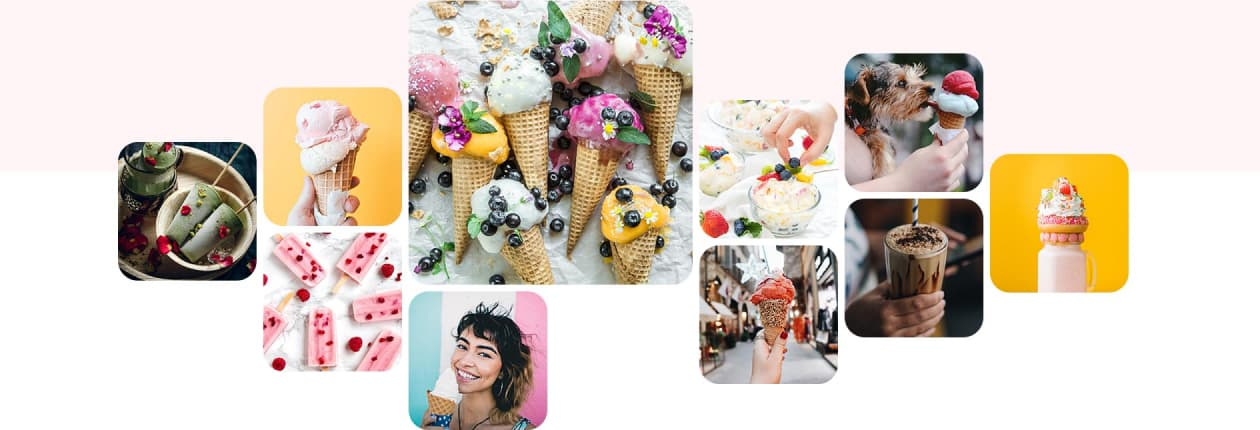
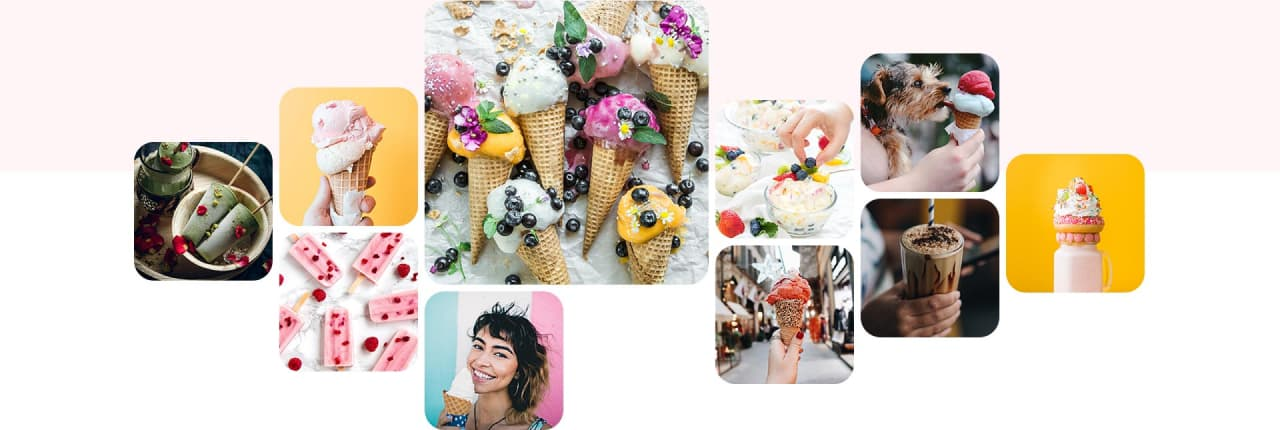
добавила недостающие форматы картинок

Changed region(s): [[0.0929, 0.0, 0.7738, 1.0], [0.8357, 0.3628, 0.8976, 0.6651]]

diff --git a/src/sass/layout/_gallery.scss b/src/sass/layout/_gallery.scss
@@ -13,19 +13,23 @@
   top: 0;
  width: 100%;
  height: 122px;
-background-image: url('../images/gallery/mobile/ice-cream-mob.jpg');
-  background-size: contain;
-  background-repeat: no-repeat;
-  background-position: center;
+// background-image: url('../images/gallery/mobile/ice-cream-mob.jpg');
+//   background-size: contain;
+//   background-repeat: no-repeat;
+//   background-position: center;
 }
 
-@media screen and (min-devicel-ratio: 2),
-  screen and (min-resolution: 192dpi) and (min-width: 320px),
-  screen and (min-resolution: 2dppx) and (min-width: 320px) {
-  .gallery-container {
-    background-image: url('../images/gallery/mobile/ice-cream-mob@2x.jpg');
-  }
-}
+// .gallery-img {
+//   height: 100%;
+// }
+
+// @media screen and (min-devicel-ratio: 2),
+//   screen and (min-resolution: 192dpi) and (min-width: 320px),
+//   screen and (min-resolution: 2dppx) and (min-width: 320px) {
+//   .gallery-container {
+//     background-image: url('../images/gallery/mobile/ice-cream-mob@2x.jpg');
+//   }
+// }
 
 @media screen and (min-width: 768px) {
   .gallery-container,
@@ -33,18 +37,18 @@ background-image: url('../images/gallery/mobile/ice-cream-mob.jpg');
     height: 264px;
   }
 
-  .gallery-container {
-    background-image: url('../images/gallery/tablet/ice-cream-tabl.jpg');
-  }
+  // .gallery-container {
+  //   background-image: url('../images/gallery/tablet/ice-cream-tabl.jpg');
+  // }
 }
 
-@media screen and (min-devicel-ratio: 2),
-  screen and (min-resolution: 192dpi) and (min-width: 768px),
-  screen and (min-resolution: 2dppx) and (min-width: 768px) {
-  .gallery-container {
-    background-image: url('../images/gallery/tablet/ice-cream-tabl@2x.jpg');
-  }
-}
+// @media screen and (min-devicel-ratio: 2),
+//   screen and (min-resolution: 192dpi) and (min-width: 768px),
+//   screen and (min-resolution: 2dppx) and (min-width: 768px) {
+//   .gallery-container {
+//     background-image: url('../images/gallery/tablet/ice-cream-tabl@2x.jpg');
+//   }
+// }
 
 @media screen and (min-width: 1200px) {
   .gallery-container,
@@ -52,19 +56,18 @@ background-image: url('../images/gallery/mobile/ice-cream-mob.jpg');
     height: 430px;
   }
 
-  .gallery-container {
-    box-shadow: 0 7px 7px -4px rgba(0, 0, 0, 0.25);
-    background-image: url('../images/gallery/desktop/ice-cream-desk.jpg');
-  }
+  // .gallery-container {
+  //   background-image: url('../images/gallery/desktop/ice-cream-desk.jpg');
+  // }
 }
 
-@media screen and (min-devicel-ratio: 2),
-  screen and (min-resolution: 192dpi) and (min-width: 1200px),
-  screen and (min-resolution: 2dppx) and (min-width: 1200px) {
-  .gallery-container {
-    background-image: url('../images/gallery/desktop/ice-cream-desk@2x.jpg');
-  }
-}
+// @media screen and (min-devicel-ratio: 2),
+//   screen and (min-resolution: 192dpi) and (min-width: 1200px),
+//   screen and (min-resolution: 2dppx) and (min-width: 1200px) {
+//   .gallery-container {
+//     background-image: url('../images/gallery/desktop/ice-cream-desk@2x.jpg');
+//   }
+// }
 
 .title {
   font-family: $title-text-font;

diff --git a/src/partials/gallery.html b/src/partials/gallery.html
@@ -1,6 +1,58 @@
 <section class="gallery">
   <div class="container gallery-container">
     <h2 class="title visually-hidden">Gallery</h2>
+    <picture>
+                <source
+                  srcset="
+                    ./images/gallery/desktop/ice-cream-desk-webp.webp    1x,
+                    ./images/gallery/desktop/ice-cream-desk-webp@2x.webp 2x
+                  "
+                  media="(min-width: 1200px)"
+                  type="image/webp"
+                />
+                <source
+                  srcset="
+                    ./images/gallery/desktop/ice-cream-desk.jpg    1x,
+                    ./images/gallery/desktop/ice-cream-desk@2x.jpg 2x
+                  "
+                  media="(min-width: 1200px)"
+                />
+                <source
+                  srcset="
+                    ./images/gallery/tablet/ice-cream-tabl-webp.webp    1x,
+                    ./images/gallery/tablet/ice-cream-tabl-webp@2x.webp 2x
+                  "
+                  media="(min-width: 768px)"
+                  type="image/webp"
+                />
+                <source
+                  srcset="
+                    ./images/gallery/tablet/ice-cream-tabl.jpg    1x,
+                    ./images/gallery/tablet/ice-cream-tabl@2x.jpg 2x
+                  "
+                  media="(min-width: 768px)"
+                />
+                <source
+                  srcset="
+                    ./images/gallery/mobile/ice-cream-mob-webp.webp    1x,
+                    ./images/gallery/mobile/ice-cream-mob-webp@2x.webp 2x
+                  "
+                  media="(min-width: 480px)"
+                  type="image/webp"
+                />
+                <source
+                  srcset="
+                    ./images/gallery/mobile/ice-cream-mob.jpg    1x,
+                    ./images/gallery/mobile/ice-cream-mob@2x.jpg 2x
+                  "
+                  media="(min-width: 480px)"
+                />
+                <img
+                  class="gallery-img"
+                  src="./images/gallery/mobile/ice-cream-mob.jpg"
+                  alt="Ten different photos of diverse ice cream"
+                />
+              </picture>
     </div>
   </div>
 </section>
